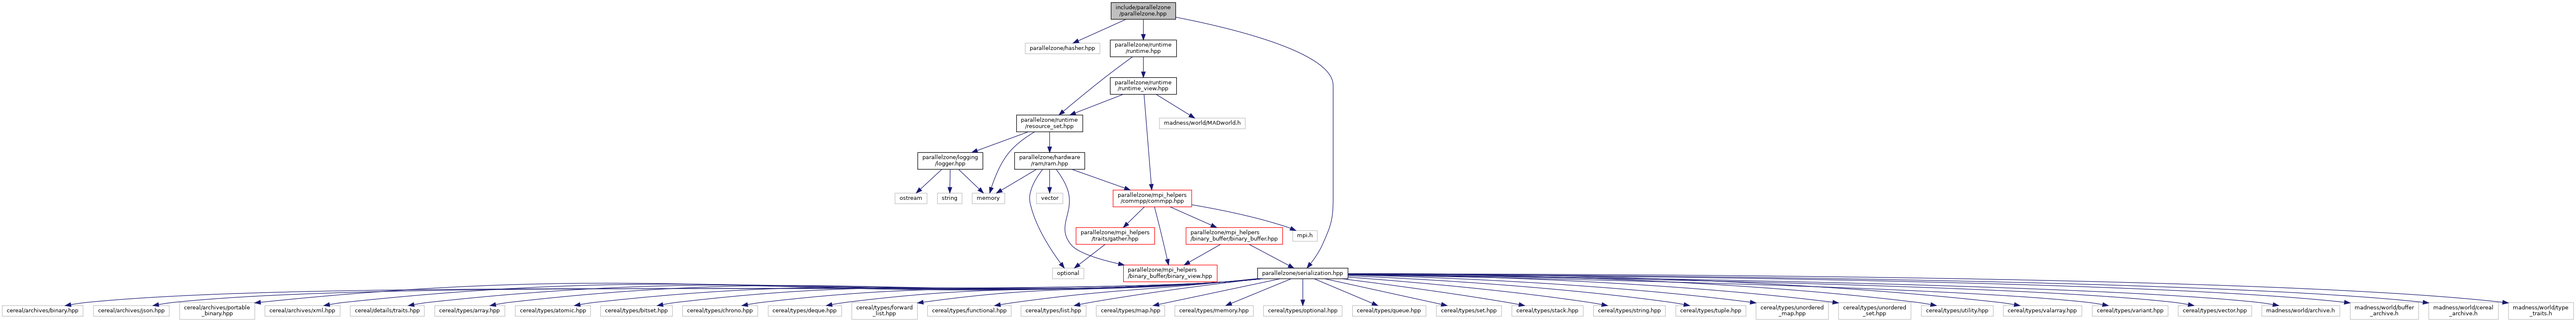
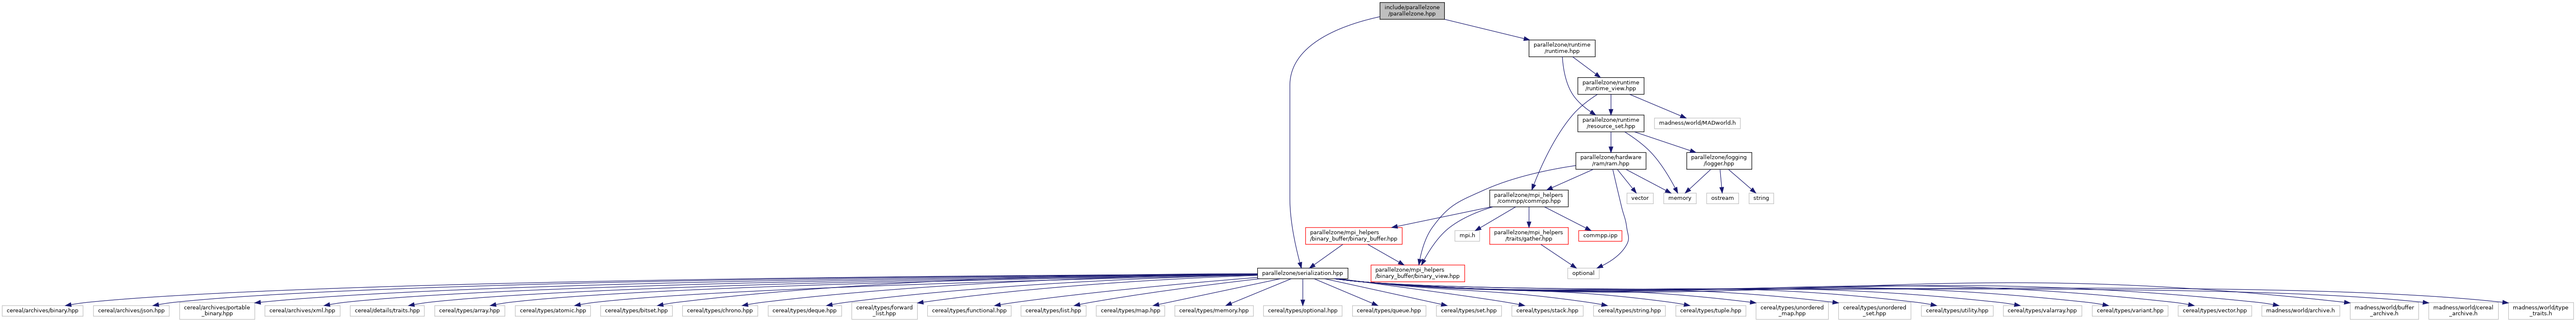
deploy: a121c8d43dafb9f33e9427c839d9e389e78e52cb

diff --git a/parallelzone_cxx_api/parallelzone_8hpp.html b/parallelzone_cxx_api/parallelzone_8hpp.html
@@ -70,18 +70,16 @@ $(function() {
 <div class="title">parallelzone.hpp File Reference</div>  </div>
 </div><!--header-->
 <div class="contents">
-<div class="textblock"><code>#include &quot;parallelzone/hasher.hpp&quot;</code><br />
-<code>#include &quot;parallelzone/serialization.hpp&quot;</code><br />
+<div class="textblock"><code>#include &quot;parallelzone/serialization.hpp&quot;</code><br />
 <code>#include &lt;<a class="el" href="runtime_8hpp_source.html">parallelzone/runtime/runtime.hpp</a>&gt;</code><br />
 </div><div class="textblock"><div class="dynheader">
 Include dependency graph for parallelzone.hpp:</div>
 <div class="dyncontent">
 <div class="center"><img src="parallelzone_8hpp__incl.png" border="0" usemap="#ainclude_2parallelzone_2parallelzone_8hpp" alt=""/></div>
 <map name="ainclude_2parallelzone_2parallelzone_8hpp" id="ainclude_2parallelzone_2parallelzone_8hpp">
-<area shape="rect" title=" " alt="" coords="2639,5,2793,47"/>
-<area shape="rect" title=" " alt="" coords="2435,102,2613,129"/>
+<area shape="rect" title=" " alt="" coords="3278,5,3431,47"/>
 <area shape="rect" href="serialization_8hpp_source.html" title=" " alt="" coords="2987,638,3202,665"/>
-<area shape="rect" href="runtime_8hpp.html" title=" " alt="" coords="2637,95,2795,136"/>
+<area shape="rect" href="runtime_8hpp.html" title=" " alt="" coords="3632,95,3789,136"/>
 <area shape="rect" title=" " alt="" coords="5,727,197,754"/>
 <area shape="rect" title=" " alt="" coords="222,727,402,754"/>
 <area shape="rect" title=" " alt="" coords="427,720,605,761"/>
@@ -113,21 +111,22 @@ Include dependency graph for parallelzone.hpp:</div>
 <area shape="rect" title=" " alt="" coords="5583,720,5745,761"/>
 <area shape="rect" title=" " alt="" coords="5769,720,5935,761"/>
 <area shape="rect" title=" " alt="" coords="5959,720,6113,761"/>
-<area shape="rect" href="resource__set_8hpp_source.html" title=" " alt="" coords="2415,273,2572,315"/>
-<area shape="rect" href="runtime__view_8hpp_source.html" title=" " alt="" coords="2637,184,2795,225"/>
-<area shape="rect" href="ram_8hpp_source.html" title=" " alt="" coords="2410,363,2577,404"/>
-<area shape="rect" title=" " alt="" coords="2309,459,2387,486"/>
-<area shape="rect" href="logger_8hpp_source.html" title=" " alt="" coords="2180,363,2335,404"/>
-<area shape="rect" title=" " alt="" coords="2500,638,2575,665"/>
-<area shape="rect" href="binary__view_8hpp_source.html" title=" " alt="" coords="2669,631,2891,672"/>
-<area shape="rect" href="commpp_8hpp_source.html" title=" " alt="" coords="2644,452,2831,493"/>
-<area shape="rect" title=" " alt="" coords="2462,459,2525,486"/>
-<area shape="rect" title=" " alt="" coords="3071,549,3129,575"/>
-<area shape="rect" href="binary__buffer_8hpp_source.html" title=" " alt="" coords="2817,541,3047,583"/>
-<area shape="rect" href="gather_8hpp_source.html" title=" " alt="" coords="2556,541,2743,583"/>
-<area shape="rect" title=" " alt="" coords="2126,459,2202,486"/>
-<area shape="rect" title=" " alt="" coords="2227,459,2285,486"/>
-<area shape="rect" title=" " alt="" coords="2754,281,2958,307"/>
+<area shape="rect" href="resource__set_8hpp_source.html" title=" " alt="" coords="3748,273,3905,315"/>
+<area shape="rect" href="runtime__view_8hpp_source.html" title=" " alt="" coords="3748,184,3905,225"/>
+<area shape="rect" href="ram_8hpp_source.html" title=" " alt="" coords="3743,363,3910,404"/>
+<area shape="rect" title=" " alt="" coords="3952,459,4029,486"/>
+<area shape="rect" href="logger_8hpp_source.html" title=" " alt="" coords="4007,363,4161,404"/>
+<area shape="rect" title=" " alt="" coords="3724,638,3799,665"/>
+<area shape="rect" href="binary__view_8hpp_source.html" title=" " alt="" coords="3257,631,3479,672"/>
+<area shape="rect" href="commpp_8hpp_source.html" title=" " alt="" coords="3539,452,3725,493"/>
+<area shape="rect" title=" " alt="" coords="3865,459,3927,486"/>
+<area shape="rect" title=" " alt="" coords="3456,549,3515,575"/>
+<area shape="rect" href="binary__buffer_8hpp_source.html" title=" " alt="" coords="3101,541,3331,583"/>
+<area shape="rect" href="gather_8hpp_source.html" title=" " alt="" coords="3539,541,3725,583"/>
+<area shape="rect" href="commpp_8ipp.html" title=" " alt="" coords="3750,549,3853,575"/>
+<area shape="rect" title=" " alt="" coords="4054,459,4130,486"/>
+<area shape="rect" title=" " alt="" coords="4155,459,4213,486"/>
+<area shape="rect" title=" " alt="" coords="3930,281,4134,307"/>
 </map>
 </div>
 </div>

diff --git a/parallelzone_cxx_api/parallelzone_8hpp_source.html b/parallelzone_cxx_api/parallelzone_8hpp_source.html
@@ -88,11 +88,10 @@ $(function() {
 <div class="line"><a name="l00016"></a><span class="lineno">   16</span>&#160; </div>
 <div class="line"><a name="l00017"></a><span class="lineno">   17</span>&#160;<span class="preprocessor">#pragma once</span></div>
 <div class="line"><a name="l00018"></a><span class="lineno">   18</span>&#160; </div>
-<div class="line"><a name="l00026"></a><span class="lineno">   26</span>&#160;<span class="preprocessor">#include &quot;parallelzone/hasher.hpp&quot;</span></div>
-<div class="line"><a name="l00027"></a><span class="lineno">   27</span>&#160;<span class="preprocessor">#include &quot;parallelzone/serialization.hpp&quot;</span></div>
-<div class="line"><a name="l00028"></a><span class="lineno">   28</span>&#160;<span class="preprocessor">#include &lt;<a class="code" href="runtime_8hpp.html">parallelzone/runtime/runtime.hpp</a>&gt;</span></div>
-<div class="line"><a name="l00029"></a><span class="lineno">   29</span>&#160; </div>
-<div class="line"><a name="l00030"></a><span class="lineno">   30</span>&#160;<span class="keyword">namespace </span>parallelzone {} <span class="comment">// namespace parallelzone</span></div>
+<div class="line"><a name="l00026"></a><span class="lineno">   26</span>&#160;<span class="preprocessor">#include &quot;parallelzone/serialization.hpp&quot;</span></div>
+<div class="line"><a name="l00027"></a><span class="lineno">   27</span>&#160;<span class="preprocessor">#include &lt;<a class="code" href="runtime_8hpp.html">parallelzone/runtime/runtime.hpp</a>&gt;</span></div>
+<div class="line"><a name="l00028"></a><span class="lineno">   28</span>&#160; </div>
+<div class="line"><a name="l00029"></a><span class="lineno">   29</span>&#160;<span class="keyword">namespace </span>parallelzone {} <span class="comment">// namespace parallelzone</span></div>
 <div class="ttc" id="aruntime_8hpp_html"><div class="ttname"><a href="runtime_8hpp.html">runtime.hpp</a></div></div>
 </div><!-- fragment --></div><!-- contents -->
 <!-- start footer part -->
